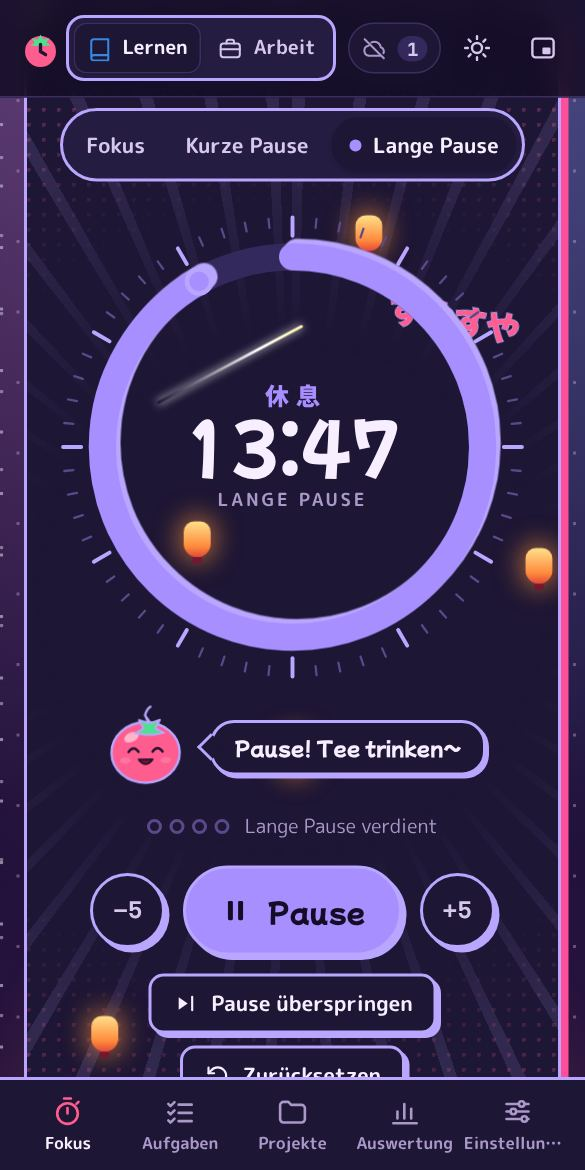
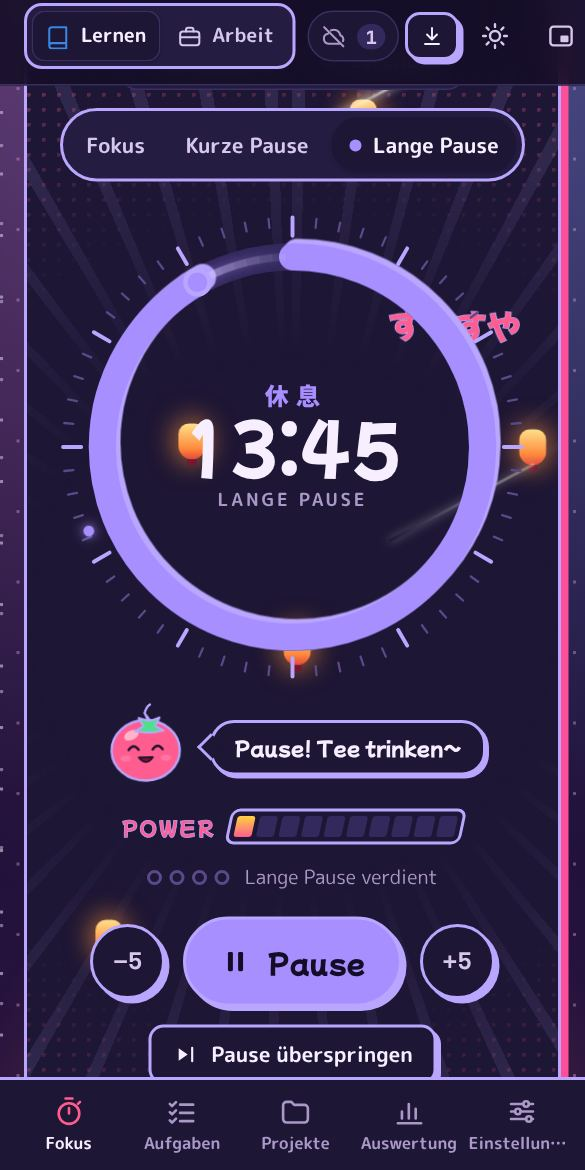
Startseite mit 13 Stilen, README und Übergabe aktualisiert
- Galerie mit allen 13 Stilen, neue Funktionskarten (Zeiger ziehen, Tags, Signaltöne)
- README: Funktionen und Stile, Hinweis zum Schema-Update
- STATUS: erledigt und offen (Name/Domain, optional Superhelden-Stil)
- Tomate im Stil Klassisch: Welle bleibt im Umriss

Claude-Session: https://claude.ai/code/session_018wLpd7XuwVHz8FLiaL89Xf

diff --git a/taktwerk/site/index.html b/taktwerk/site/index.html
@@ -210,22 +210,44 @@
           <h3>Sync auf Wunsch</h3>
           <p>Mit einem kostenlosen Supabase-Konto auf dem Laptop starten und auf dem Handy pausieren.</p>
         </article>
+        <article class="feature" style="--c: var(--tomato)">
+          <div class="ic"><svg viewBox="0 0 24 24" fill="none" stroke="currentColor" stroke-width="2" stroke-linecap="round" aria-hidden="true"><circle cx="12" cy="12" r="9"/><circle cx="12" cy="3" r="2" fill="currentColor"/><path d="M16 4.5a9 9 0 0 1 4 4"/></svg></div>
+          <h3>Zeiger ziehen</h3>
+          <p>Etwas vorspringen oder die Runde verlängern: den Zeiger mit Maus oder Finger verschieben, er rastet auf ganze Minuten ein.</p>
+        </article>
+        <article class="feature" style="--c: var(--sage)">
+          <div class="ic"><svg viewBox="0 0 24 24" fill="none" stroke="currentColor" stroke-width="2" stroke-linecap="round" stroke-linejoin="round" aria-hidden="true"><path d="M3 12V4a1 1 0 0 1 1-1h8l9 9-9 9z"/><circle cx="8" cy="8" r="1.5"/></svg></div>
+          <h3>Tags und Farben</h3>
+          <p>Projekte mit Tags wie «Coding», «Lernen» oder «Admin» versehen und frei einfärben; die Auswertung zeigt die Zeit je Tag.</p>
+        </article>
+        <article class="feature" style="--c: var(--indigo)">
+          <div class="ic"><svg viewBox="0 0 24 24" fill="none" stroke="currentColor" stroke-width="2" stroke-linecap="round" stroke-linejoin="round" aria-hidden="true"><path d="M9 18V5l12-2v13"/><circle cx="6" cy="18" r="3"/><circle cx="18" cy="16" r="3"/></svg></div>
+          <h3>Eigene Signaltöne</h3>
+          <p>Sieben Klänge von Glocke bis Gong, je einer für das Ende von Fokus, kurzer und langer Pause. Oder die Zeit ganz ausblenden.</p>
+        </article>
       </div>
     </div>
   </section>
 
   <section class="block styles" id="stile">
     <div class="wrap">
-      <p class="eyebrow">Acht Stile</p>
+      <p class="eyebrow">13 Stile</p>
       <h2>Dein Timer, dein Look.</h2>
-      <p class="intro">Jeder Stil hat Tag- und Nachtmodus, eigene Szenen für Fokus, kurze und lange Pause und feiert jede geschaffte Session: mit Konfetti, Feuerwerk, Funkenregen, Blütenregen oder Stempel.</p>
+      <p class="intro">Jeder Stil hat Tag- und Nachtmodus, eigene Szenen für Fokus, kurze und lange Pause, ein Bild, das mit dem Fortschritt wächst, und feiert jede geschaffte Session.</p>
       <div class="gallery">
-        <figure><img src="img/klassisch.jpg" loading="lazy" width="585" height="1170" alt="Stil Klassisch in der kurzen Pause"><figcaption><b>Klassisch</b><span>Leuchtendes Zifferblatt, Atemkreis in der Pause, Konfetti</span></figcaption></figure>
-        <figure><img src="img/anime.jpg" loading="lazy" width="585" height="1170" alt="Stil Anime in der langen Pause"><figcaption><b>Anime</b><span>Blitze im Fokus, Herzen in der Pause, Laternenfest</span></figcaption></figure>
-        <figure><img src="img/technik.jpg" loading="lazy" width="585" height="1170" alt="Stil Technik bei Nacht"><figcaption><b>Technik</b><span>Oszilloskop: Sinus, Rechteck, Lissajous je nach Phase</span></figcaption></figure>
-        <figure><img src="img/barock.jpg" loading="lazy" width="585" height="1170" alt="Stil Barock in der langen Pause"><figcaption><b>Barock</b><span>Pendel im Zifferblatt, Kerzen, Tafelmusik, Feuerwerk</span></figcaption></figure>
-        <figure><img src="img/natur.jpg" loading="lazy" width="585" height="1170" alt="Stil Natur im Sonnenuntergang"><figcaption><b>Natur</b><span>Wald im Wind, Sonnenuntergang, eine Pflanze wächst mit</span></figcaption></figure>
-        <figure><img src="img/amtlich.jpg" loading="lazy" width="585" height="1170" alt="Stil Amtlich in der Kaffeepause"><figcaption><b>Amtlich</b><span>Formular, Kaffeepause und Stempel «Erledigt»</span></figcaption></figure>
+        <figure><img src="img/klassisch.jpg" loading="lazy" width="585" height="1170" alt="Stil Klassisch"><figcaption><b>Klassisch</b><span>Glas-Look, Atemkreis in der Pause, Tomate füllt sich</span></figcaption></figure>
+        <figure><img src="img/anime.jpg" loading="lazy" width="585" height="1170" alt="Stil Anime"><figcaption><b>Anime</b><span>Blitze, Herzen, Laternenfest, Power-Leiste</span></figcaption></figure>
+        <figure><img src="img/technik.jpg" loading="lazy" width="585" height="1170" alt="Stil Technik"><figcaption><b>Technik</b><span>Oszilloskop: Sinus, Rechteck, Lissajous, LED-Pegel</span></figcaption></figure>
+        <figure><img src="img/barock.jpg" loading="lazy" width="585" height="1170" alt="Stil Barock"><figcaption><b>Barock</b><span>Pendel im Zifferblatt, Sanduhr, Kerzen, Feuerwerk</span></figcaption></figure>
+        <figure><img src="img/natur.jpg" loading="lazy" width="585" height="1170" alt="Stil Forest"><figcaption><b>Forest</b><span>Pro Pomodoro wächst ein neuer Baum</span></figcaption></figure>
+        <figure><img src="img/amtlich.jpg" loading="lazy" width="585" height="1170" alt="Stil Amtlich"><figcaption><b>Amtlich</b><span>Formular, Aktenstapel, Stempel «Erledigt»</span></figcaption></figure>
+        <figure><img src="img/rennen.jpg" loading="lazy" width="585" height="1170" alt="Stil Rennen"><figcaption><b>Rennen</b><span>Rennwagen dreht Runden bis zur Zielflagge</span></figcaption></figure>
+        <figure><img src="img/flug.jpg" loading="lazy" width="585" height="1170" alt="Stil Flug"><figcaption><b>Flug</b><span>Flugzeug umrundet die Uhr, Route ZRH → Ziel</span></figcaption></figure>
+        <figure><img src="img/meer.jpg" loading="lazy" width="585" height="1170" alt="Stil Meer"><figcaption><b>Meer</b><span>Fischschwärme, Quallen, Oktopus, Tauchtiefe</span></figcaption></figure>
+        <figure><img src="img/flora.jpg" loading="lazy" width="585" height="1170" alt="Stil Flora"><figcaption><b>Flora</b><span>Blumenwiese, Bienen und Marienkäfer</span></figcaption></figure>
+        <figure><img src="img/scifi.jpg" loading="lazy" width="585" height="1170" alt="Stil Sci-Fi"><figcaption><b>Sci-Fi</b><span>Warp-Sprung, Radar, Reise zum Mars</span></figcaption></figure>
+        <figure><img src="img/elemente.jpg" loading="lazy" width="585" height="1170" alt="Stil Elemente"><figcaption><b>Elemente</b><span>Feuer, Wasser, Luft und Erde</span></figcaption></figure>
+        <figure><img src="img/zug.jpg" loading="lazy" width="585" height="1170" alt="Stil Zug"><figcaption><b>Zug</b><span>Bahnfahrt durch die Alpen</span></figcaption></figure>
       </div>
     </div>
   </section>

diff --git a/taktwerk/src/ui/components/progress.tsx b/taktwerk/src/ui/components/progress.tsx
@@ -41,8 +41,10 @@ export function TomatoFill({ p, round }: { p: number; round: string }) {
       <svg class="tomato-fill" viewBox="0 0 64 64">
         <defs><clipPath id="tf-clip"><circle cx="32" cy="38" r="22" /></clipPath></defs>
         <circle class="tf-shell" cx="32" cy="38" r="22" />
-        <rect class="tf-juice" clip-path="url(#tf-clip)" x="0" y={y.toFixed(1)} width="64" height="64" />
-        <path class="tf-wave" clip-path="url(#tf-clip)" d={`M0 ${y.toFixed(1)} q8 -3 16 0 t16 0 t16 0 t16 0 v4 h-64 Z`} />
+        <g clip-path="url(#tf-clip)">
+          <rect class="tf-juice" x="0" y={y.toFixed(1)} width="64" height="64" />
+          <path class="tf-wave" d={`M0 ${y.toFixed(1)} q8 -3 16 0 t16 0 t16 0 t16 0 t16 0 t16 0 v4 h-96 Z`} />
+        </g>
         <circle class="tf-outline" cx="32" cy="38" r="22" />
         <path class="tf-leaf" d="M32 16 l5 -7 3 6 7 -2 -5 6 -10 1 -10 -1 -5 -6 7 2 3 -6 z" />
       </svg>

diff --git a/taktwerk/README.md b/taktwerk/README.md
@@ -18,13 +18,23 @@ Die frühere Adresse `…/pomodoro-planer/v2/` leitet automatisch auf die App we
 - **Projekte und Aufgaben** – Aufgaben gehören zu einem Projekt, mit Status, Priorität, Fälligkeit und Schätzung in Pomodoros oder Stunden. ▶ bei einer Aufgabe startet den Timer dafür; die Zeit wird ihr gutgeschrieben.
 - **Auswertung** – Woche, Monat, Jahr: Verlauf nach Projekt, Vergleich mit der Vorperiode, Protokoll, Zeit nachtragen, Zusammenfassung zum Kopieren, CSV- und Excel-Export.
 - **Sync** – Mit einem kostenlosen Supabase-Projekt erscheinen Änderungen auf allen Geräten, auch der laufende Timer: auf dem Laptop starten, auf dem Handy pausieren. Offline wird alles lokal gespeichert und später übertragen. Anzeige oben rechts: grün = synchron, gelb = offline, rot = Fehler, grau = nur lokal.
-- **Darstellung** – Tag, Nacht oder automatisch und sechs Stile. Jeder Stil hat eigene Szenen für Fokus, kurze und lange Pause (auch der Seitenhintergrund wechselt) und feiert einen geschafften Pomodoro:
-  - **Klassisch:** leuchtendes Zifferblatt, pulsierender Ring; Pause mit Atemkreis (4 s ein, 4 s aus), lange Pause mit Blasen; Konfetti.
-  - **Anime:** Tomaten-Chan, Manga-Linien; Fokus mit Blitzen und Energie-Aura, kurze Pause mit Herzen und Blüten, lange Pause als Laternenfest mit Sternschnuppen; «やった!».
-  - **Technik:** Datenblatt am Tag, Oszilloskop in der Nacht; laufende Messkurve (Sinus CH1, Rechteck mit Spektrum CH2, Lissajous im XY-Modus CH3), Kennwerte T, f und Tastgrad; «PASS».
-  - **Barock:** Gold, römische Ziffern, Pendel im Sekundentakt und Kerzen; kurze Pause mit Tafelmusik, lange Pause mit Feuerwerk; «Bravissimo!».
-  - **Natur:** Wald mit Sonne bzw. Mond und Wolken, eine Pflanze wächst mit dem Fokus; Wind und fallende Blätter in der Pause, Sonnenuntergang mit Vögeln in der langen Pause; die Pflanze blüht auf.
-  - **Amtlich:** Formular mit Status im Kopf, Kaffeepause, Schild «Mittagspause» und Papierflieger; Stempel «Pendent» und «Erledigt».
+- **Zeiger ziehen** – den Zeiger auf dem Zifferblatt mit Maus oder Finger verschieben: vorspringen oder verlängern (auch über eine volle Runde hinaus), rastet auf ganze Minuten ein; Pfeiltasten ±1, Bild auf/ab ±5 Minuten.
+- **Tags und Farben** – Projekte mit Tags (z. B. «Coding», «Lernen», «Admin») und freier Farbe; Tags in Projektkarten, Auswertung «Nach Tag», Verwaltung unter Einstellungen → Tags.
+- **Signale** – sieben synthetische Töne (Glocke, Marimba, Gong, Harfe, Kristall, Vogelruf, Digital), je für Ende Fokus, kurze und lange Pause; Restzeit auf Wunsch ausblenden (nur Zifferblatt).
+- **Darstellung** – Tag, Nacht oder automatisch, «Bewegung» (Aus, Dezent, Lebendig) und 13 Stile. Jeder Stil hat eigene Szenen für Fokus, kurze und lange Pause, ein Bild, das mit dem Fortschritt wächst, eine Einblendung beim Phasenwechsel und eine Feier nach jeder gespeicherten Session:
+  - **Klassisch:** Glas-Karten, leuchtendes Zifferblatt, Atemkreis in der Pause, Tomate füllt sich; Konfetti.
+  - **Anime:** Tomaten-Chan, Blitze, Herzen, Laternenfest, Power-Leiste; «やった!».
+  - **Technik:** Oszilloskop (Sinus, Rechteck mit Spektrum, Lissajous), Kennwerte, LED-Pegel; Funkenregen.
+  - **Barock:** römische Ziffern, Pendel im Sekundentakt, Sanduhr, Kerzen, Tafelmusik, Feuerwerk.
+  - **Forest:** pro Pomodoro wächst ein Baum (jedes Mal eine andere Art), darunter der Wald des Tages; Wind und Sonnenuntergang in den Pausen.
+  - **Amtlich:** Formular mit getipptem Status, Aktenstapel, Kaffeepause, Stempel «Pendent» und «Erledigt».
+  - **Rennen:** Rennwagen als Zeiger, Randsteine, Startampel, Strecke bis zur Zielflagge.
+  - **Flug:** Flugzeug als Zeiger, Wolken, Route ZRH → Ziel mit Flughöhe, Looping.
+  - **Meer:** Fisch als Zeiger, Fischschwärme, Quallen, Oktopus, Tauchtiefe, Plankton in der Nacht.
+  - **Flora:** Biene als Zeiger, Blumenwiese, Bienen, Marienkäfer und Käfer, Blumen öffnen sich nacheinander.
+  - **Sci-Fi:** Raumschiff als Zeiger, Warp-Sprung, Radar, Planet mit Ring, HUD, Reise zum Mars.
+  - **Elemente:** Feuer im Fokus, Wasser in der kurzen, Luft in der langen Pause, Erde in Ruhe; vier Element-Kugeln.
+  - **Zug:** Lok als Zeiger auf dem Gleisring, Alpen-Parallaxe, Bahnsteig mit Uhr, Reise Zürich HB → Ziel.
 
 ### Tastenkürzel
 
@@ -54,7 +64,7 @@ Auf dem Handy ist der **«Hintergrund-Modus»** automatisch eingeschaltet: Der T
 
 Ohne Sync liegen die Daten nur auf dem jeweiligen Gerät. Für den Abgleich zwischen Laptop und Handy:
 
-1. Kostenloses Projekt auf [supabase.com](https://supabase.com) anlegen und das SQL-Skript ausführen – Schritt für Schritt in [`supabase/README.md`](supabase/README.md).
+1. Kostenloses Projekt auf [supabase.com](https://supabase.com) anlegen und das SQL-Skript ausführen – Schritt für Schritt in [`supabase/README.md`](supabase/README.md). Nach App-Updates das Skript erneut ausführen (es ist idempotent); seit den Tags braucht es die Spalten `projects.tags` und `user_settings.tag_colors`.
 2. In der App *Einstellungen → Sync & Konto* die Projekt-URL und den Anon-Key eintragen.
 3. Mit deiner E-Mail-Adresse anmelden (Code aus der E-Mail eingeben). Auf jedem Gerät gleich vorgehen.
 

diff --git a/taktwerk/docs/STATUS.md b/taktwerk/docs/STATUS.md
@@ -22,25 +22,18 @@ die App unter `https://simonbruder-hub.github.io/application_study/taktwerk/app/
 4. Auswertung: CSV-Export und Textzusammenfassung wie in v1 (in v2 noch nicht übernommen).
 5. E2E-Tests für Aufgaben, Projekte, Auswertung, Einstellungen und die v1-Übernahme ergänzen.
 
-## Nächste Session (Wünsche vom 24.10.2026)
+## Erledigt (Oktober 2026)
 
-1. **Name und Domain:** «Taktwerk» ist schon vergeben (auch als Firma). Vor dem Kauf einer Domain einen neuen Namen
-   wählen und prüfen (nic.ch für `.ch`, swissreg.ch für Marken). Danach umbenennen (Texte, Manifest, Startseite) und
-   Pages so umbauen, dass die Startseite unter `/` und die App unter `/app/` liegt; Custom Domain in den Pages-Einstellungen,
-   DNS beim Registrar (CNAME `www` → `simonbruder-hub.github.io`), Supabase Site-URL/Redirects und `desktop/loader/index.html`
-   anpassen. Achtung: neue Adresse = neuer Browser-Speicher, Daten kommen über Sync zurück.
-2. **Tags und Farbsystem** (Konzept steht im Chat): Feld `tags text[]` an `projects`, Tag-Farben in `user_settings`
-   (`tag_colors jsonb`), Schema-Update in Supabase, Projekt-Dialog mit Tag-Auswahl, farbige Projektauswahl, Auswertung nach Tag.
-3. **Neue Stile «Tiere»:**
-   - **Meer:** Fische, Oktopus usw. (z. B. Fischschwärme im Fokus, Quallen in der Pause, Feier mit Luftblasen).
-   - **Flora:** Blumen mit Bienen, Käfern, Schmetterlingen.
-4. **Natur → «Forest»:** umbenennen; statt der Topfpflanze wächst ein Baum, und **jede Pause ein anderer Baum**
-   (z. B. Tanne, Eiche, Birke, Kirschbaum; der Wald füllt sich über den Tag).
-5. Optional: eigener Superhelden-Stil (eigene Figur, keine geschützte wie Spider-Man).
-6. **Zeiger ziehen:** Den Zeiger (Punkt, Auto, Flugzeug, Blatt, Edelstein) mit Maus oder Finger auf dem Zifferblatt
-   verschieben, um vorzuspringen oder die Runde zu verlängern, zusätzlich zu −5/+5.
-   Umsetzung: Pointer-Events auf `.dial` in `src/ui/components/Dial.tsx` (`pointerdown`/`move`/`up`, `setPointerCapture`,
-   `touch-action: none`), Winkel → Restzeit, auf ganze Minuten einrasten, Vorschau während des Ziehens, beim Loslassen
-   einmal `timer.adjust()` bzw. `adjustPlannedSeconds` in `src/app/timer/controller.ts` (läuft über `timerSync`, also auch
-   auf dem anderen Gerät sichtbar). Grenzen: mindestens 1 Minute Rest, höchstens eine volle Umdrehung; Tastatur
-   (Pfeiltasten) für Barrierefreiheit; für Pomodoro und Stechuhr (dort Beginn korrigieren).
+- Zeiger ziehen, Tags und Farbsystem (Supabase-Spalten `projects.tags`, `user_settings.tag_colors`; fehlende Spalten
+  werden beim Sync übersprungen und in den Einstellungen gemeldet).
+- 13 Stile mit Szenen je Phase, Fortschritts-Begleiter, Einblendungen und Feiern; Natur heisst jetzt Forest
+  (ein Baum pro Pomodoro, jedes Mal eine andere Art). Neu: Meer, Flora, Sci-Fi, Elemente, Zug.
+- Desktop-App (Tauri) lädt die Online-Version und aktualisiert sich selbst.
+
+## Offen
+
+1. **Name und Domain:** «Taktwerk» ist schon vergeben (auch als Firma). Neuen Namen wählen, prüfen (nic.ch, swissreg.ch),
+   dann umbenennen (Texte, Manifest, Startseite, Desktop), Pages auf `/` und `/app/` umbauen, Custom Domain und DNS,
+   Supabase Site-URL/Redirects und `desktop/loader/index.html` anpassen. Neue Adresse = neuer Browser-Speicher, Daten kommen über Sync zurück.
+2. Optional: eigener Superhelden-Stil (eigene Figur).
+3. Ziel danach: Website mit mehreren Apps (diese ist eine davon), eigene Accounts, online und offline auf allen Geräten.
